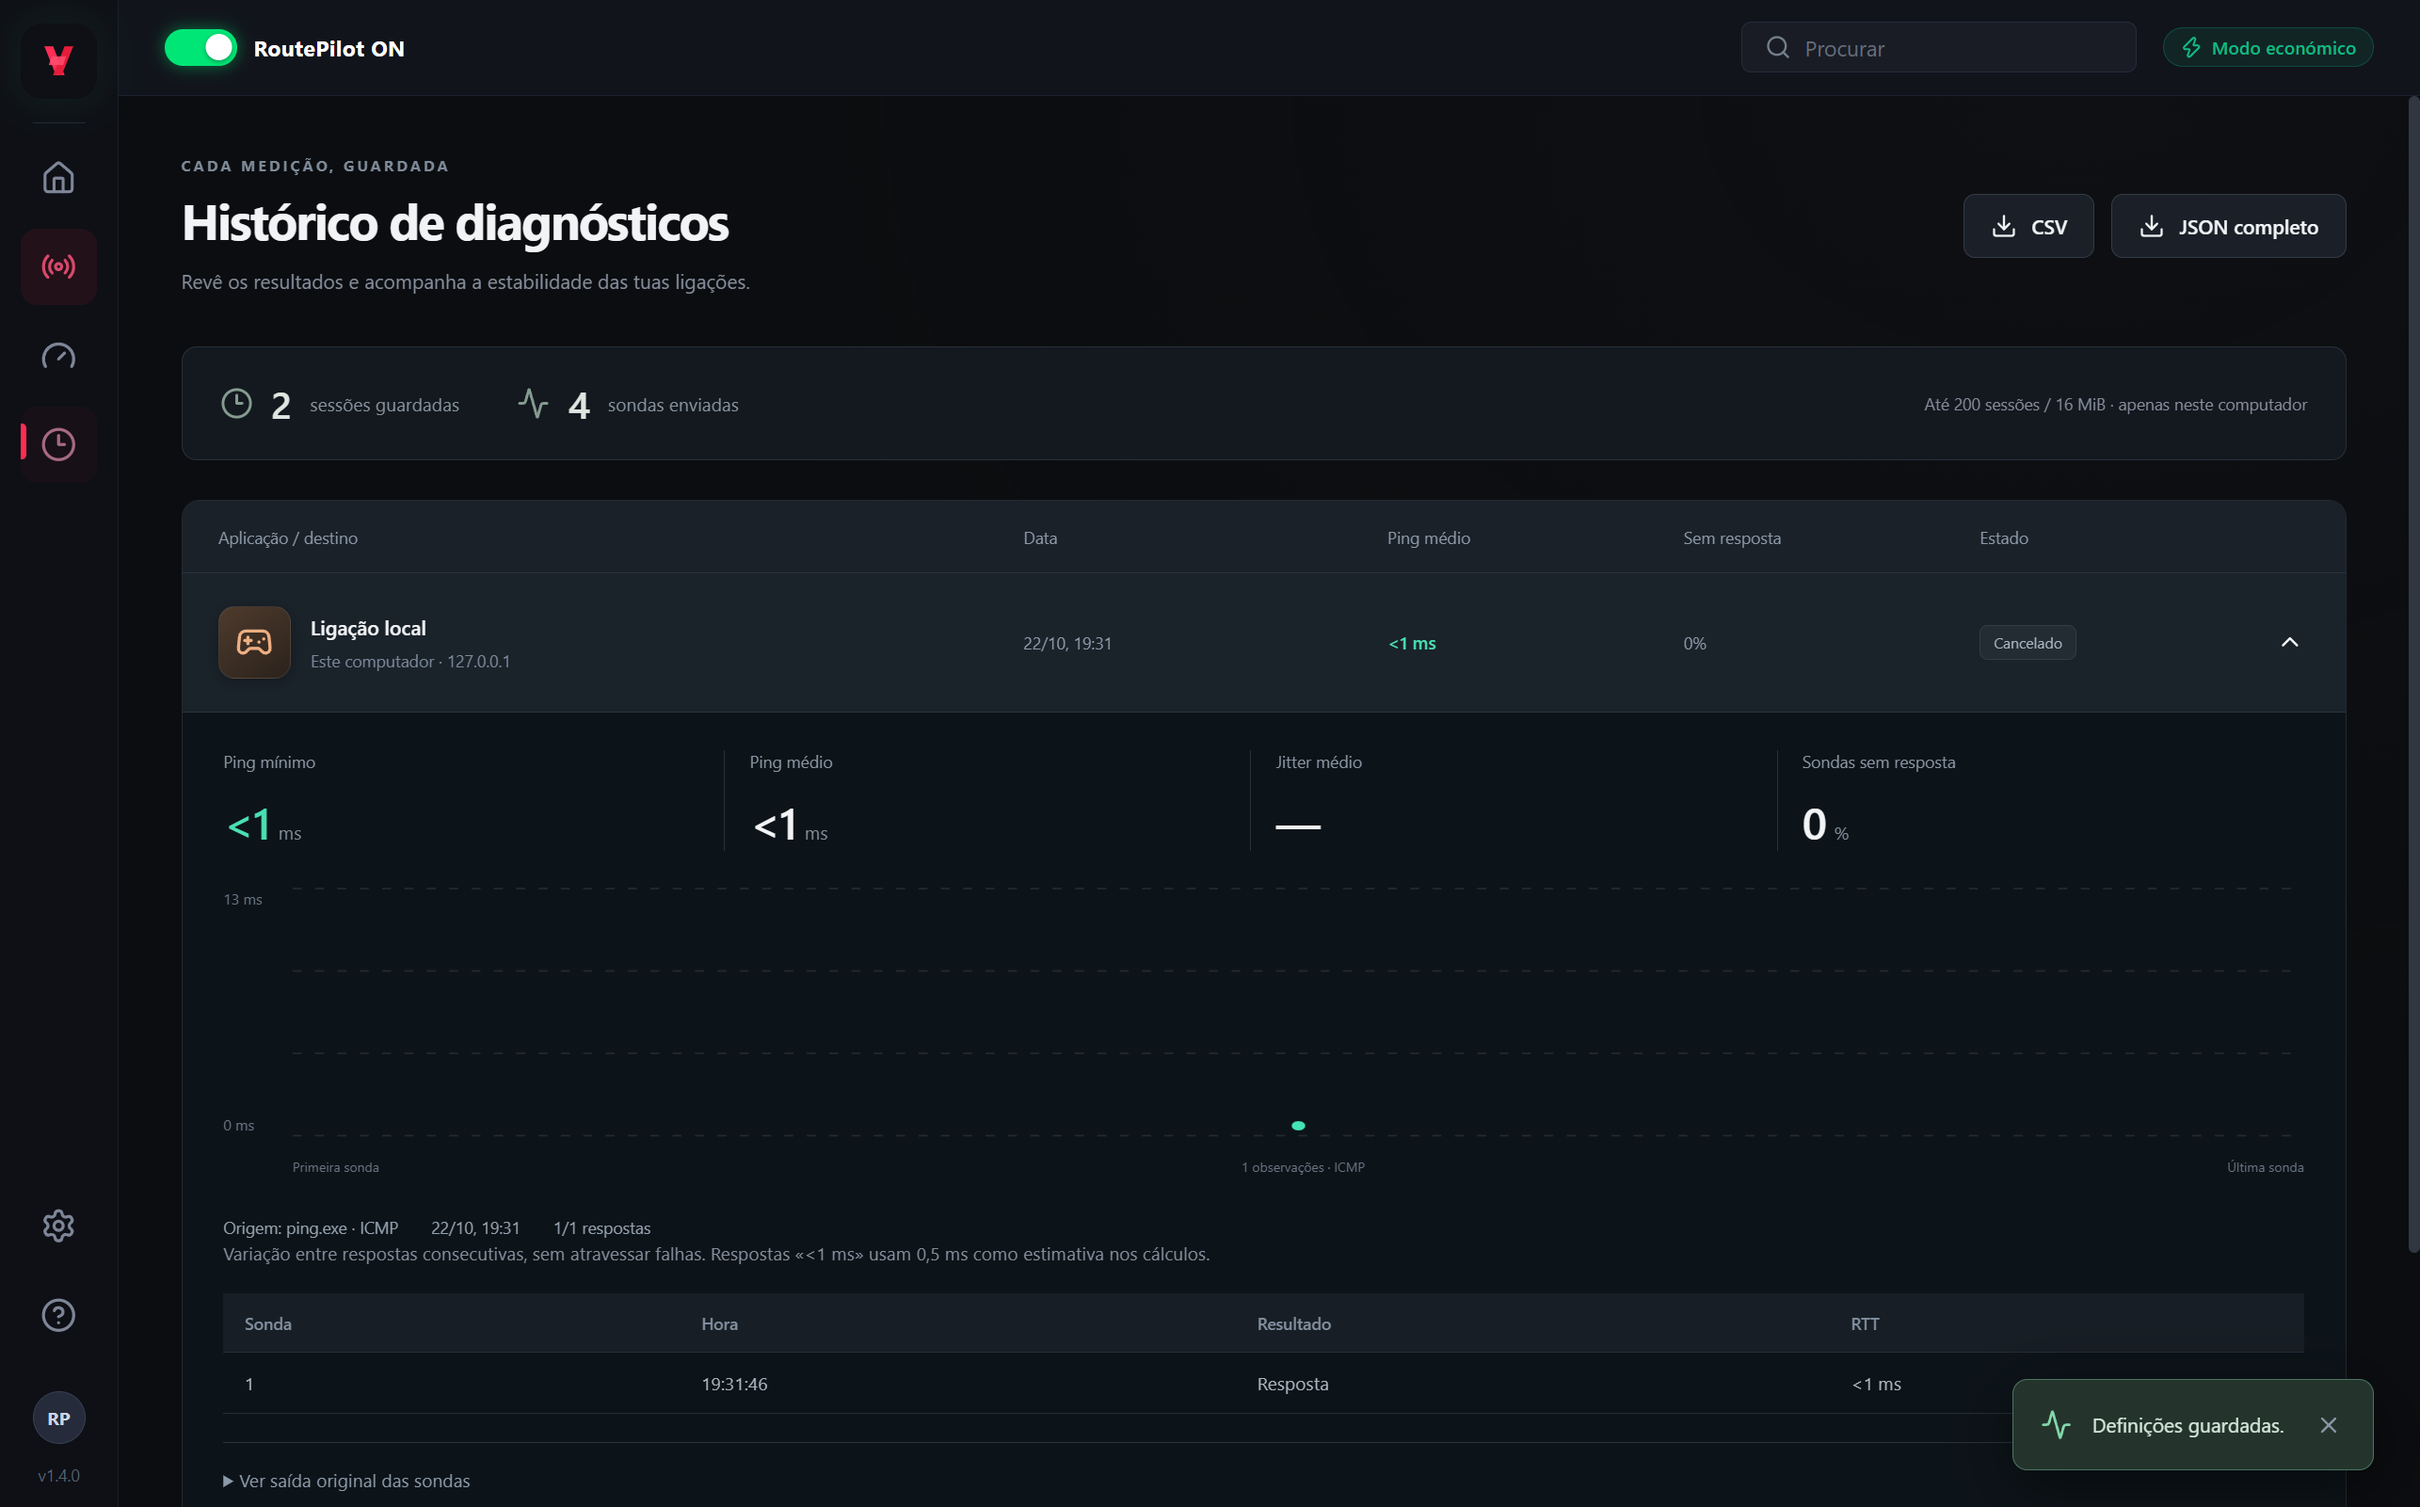
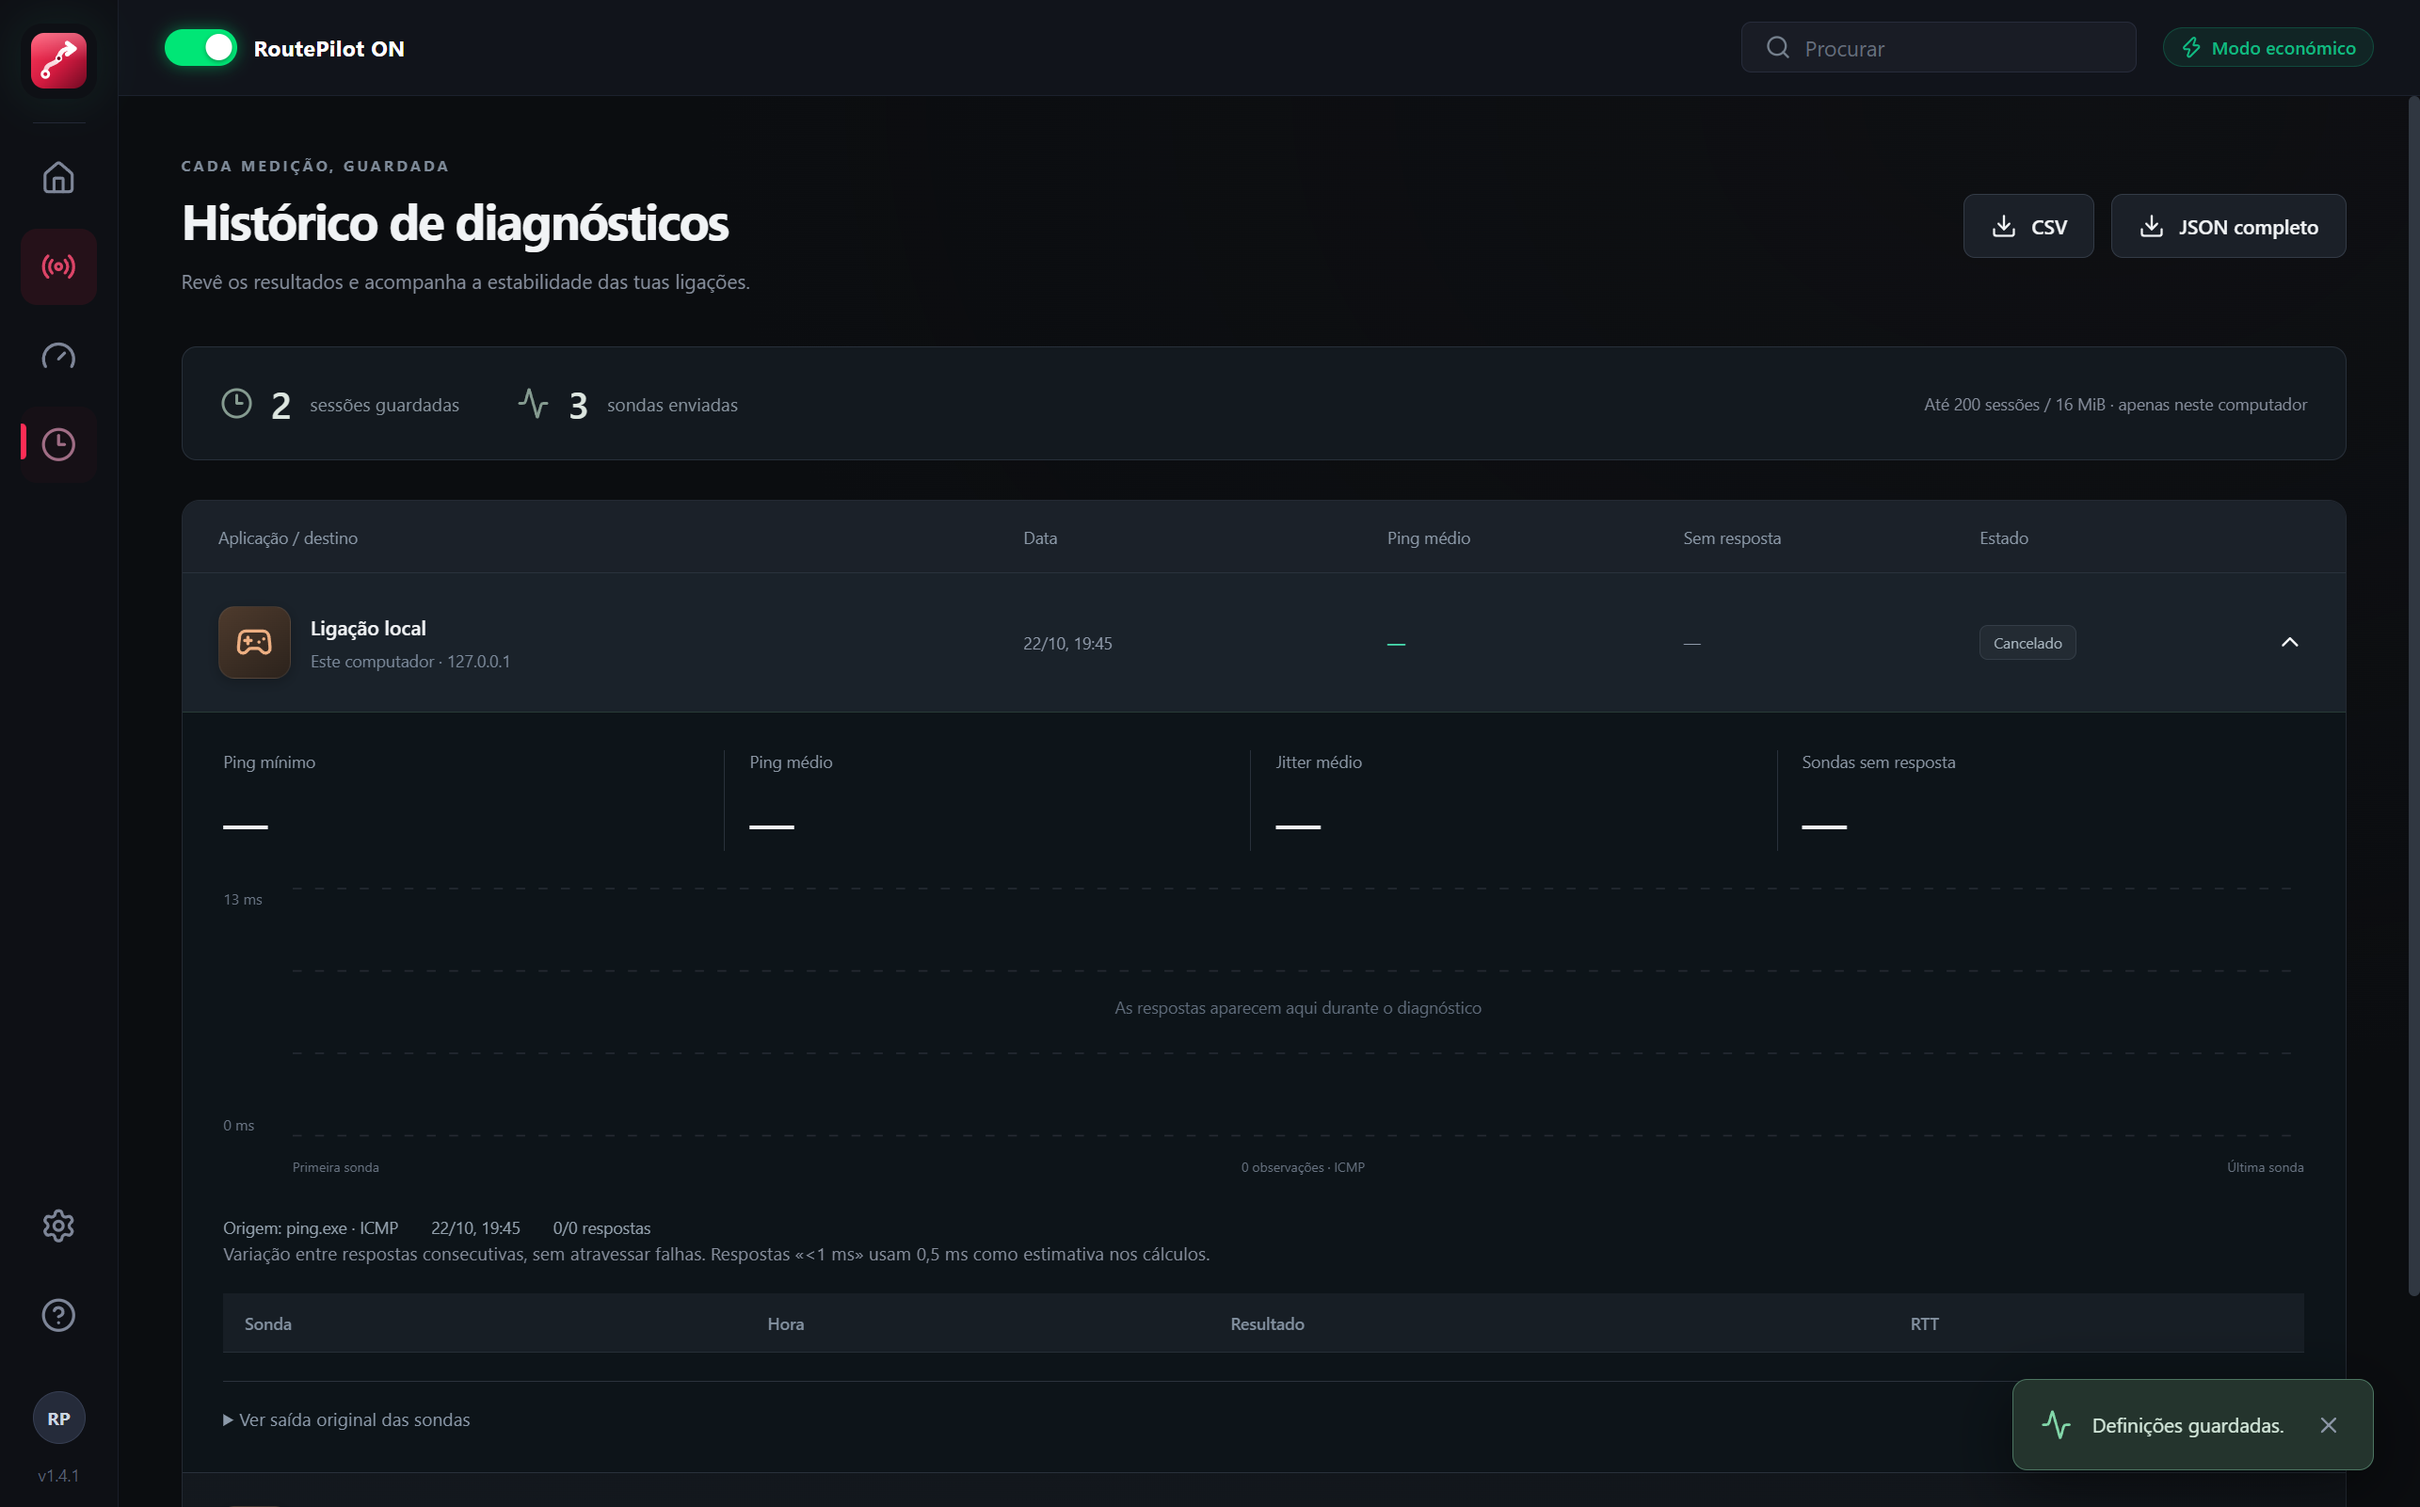
feat: novo logótipo moderno (app, ícone do Windows e site) e v1.4.1

diff --git a/docs/index.html b/docs/index.html
@@ -5,7 +5,9 @@
   <meta name="viewport" content="width=device-width, initial-scale=1.0">
   <title>RoutePilot - Diagnóstico e Otimização de Rotas para Jogos no Windows</title>
   <meta name="description" content="Aplicação desktop para Windows para diagnosticar rotas de rede, menor latência, deteção automática de servidores e monitorização de ping em jogos.">
-  <link rel="icon" href="../assets/icon.ico" type="image/x-icon">
+  <link rel="icon" href="logo.svg" type="image/svg+xml">
+  <link rel="icon" href="icon-64.png" type="image/png" sizes="64x64">
+  <link rel="apple-touch-icon" href="icon-256.png">
   <link rel="preconnect" href="https://fonts.googleapis.com">
   <link rel="preconnect" href="https://fonts.gstatic.com" crossorigin>
   <link href="https://fonts.googleapis.com/css2?family=Plus+Jakarta+Sans:wght@400;500;600;700;800&display=swap" rel="stylesheet">
@@ -349,13 +351,9 @@
   <header>
     <div class="container nav">
       <div class="logo">
-        <svg viewBox="0 0 24 24" width="26" height="26" fill="none" stroke="#00e676" stroke-width="2.2" stroke-linecap="round" stroke-linejoin="round">
-          <circle cx="12" cy="12" r="10"/>
-          <path d="M12 2a14.5 14.5 0 0 0 0 20 14.5 14.5 0 0 0 0-20"/>
-          <path d="M2 12h20"/>
-        </svg>
+        <img src="logo.svg" alt="" width="32" height="32">
         RoutePilot
-        <span class="logo-badge">v1.4.0</span>
+        <span class="logo-badge">v1.4.1</span>
       </div>
       <nav class="nav-links">
         <a href="#funcionalidades">Funcionalidades</a>
@@ -374,7 +372,7 @@
     <div class="container">
       <div class="pill">
         <span class="pill-dot"></span>
-        Versão Oficial 1.4.0 · Atualizações Automáticas via GitHub
+        Versão Oficial 1.4.1 · Atualizações Automáticas via GitHub
       </div>
       <h1>A tua ligação nos jogos,<br><span>em perspetiva.</span></h1>
       <p>
@@ -383,7 +381,7 @@
 
       <div class="hero-actions">
         <!-- Direct Installer with Auto-Update -->
-        <a id="download-setup" href="https://github.com/chibangar/routepilot/releases/latest/download/RoutePilot-Setup-1.4.0.exe" class="btn btn-primary">
+        <a id="download-setup" href="https://github.com/chibangar/routepilot/releases/latest/download/RoutePilot-Setup-1.4.1.exe" class="btn btn-primary">
           <svg viewBox="0 0 24 24" width="18" height="18" fill="none" stroke="currentColor" stroke-width="2.5" stroke-linecap="round" stroke-linejoin="round">
             <path d="M21 15v4a2 2 0 0 1-2 2H5a2 2 0 0 1-2-2v-4"/>
             <polyline points="7 10 12 15 17 10"/>
@@ -393,7 +391,7 @@
         </a>
 
         <!-- Portable Standalone -->
-        <a id="download-portable" href="https://github.com/chibangar/routepilot/releases/latest/download/RoutePilot-1.4.0-Windows.exe" class="btn btn-secondary">
+        <a id="download-portable" href="https://github.com/chibangar/routepilot/releases/latest/download/RoutePilot-1.4.1-Windows.exe" class="btn btn-secondary">
           Versão Portátil (.exe)
         </a>
       </div>

diff --git a/src/renderer/App.tsx b/src/renderer/App.tsx
@@ -22,6 +22,7 @@ import { History } from "./pages/History";
 import { NetworkPage } from "./pages/Network";
 import { SettingsPage, Help } from "./pages/Settings";
 import { isEconomyMode } from "../shared/performance";
+import logo from "./assets/logo.svg";
 
 const items = [
   { page: "home", label: "Início", icon: House },
@@ -165,11 +166,7 @@ export function App() {
             aria-label="RoutePilot — Início"
             onClick={() => navigate("home")}
           >
-            <svg viewBox="0 0 32 32" width="28" height="28" fill="none">
-              <path d="M6 6 L12 6 L20 26 L14 26 Z" fill="#ff2d55" />
-              <path d="M26 6 L20 6 L12 26 L18 26 Z" fill="#e51d3b" />
-              <path d="M11 13 L21 13 L19 19 L9 19 Z" fill="#ff4d6d" opacity="0.85" />
-            </svg>
+            <img src={logo} alt="" width={36} height={36} />
           </button>
           <div className="sidebar-divider" />
           <nav aria-label="Navegação principal">

diff --git a/README.md b/README.md
@@ -4,7 +4,7 @@ Aplicação desktop para Windows, em português, para organizar aplicações e o
 
 ## Abrir a aplicação
 
-Executar `delivery/RoutePilot-1.4.0-Windows.exe`. A distribuição portátil extrai os seus ficheiros para uma pasta temporária; configurações e histórico ficam na pasta de dados do utilizador. Não requer Node.js para utilização.
+Executar `delivery/RoutePilot-1.4.1-Windows.exe`. A distribuição portátil extrai os seus ficheiros para uma pasta temporária; configurações e histórico ficam na pasta de dados do utilizador. Não requer Node.js para utilização.
 
 1. Adicionar uma aplicação e dar-lhe um nome. Associar um `.exe` é opcional; esse ficheiro não é executado.
 2. Configurar um ou mais hostnames/IPs conhecidos. Não colar URLs.
